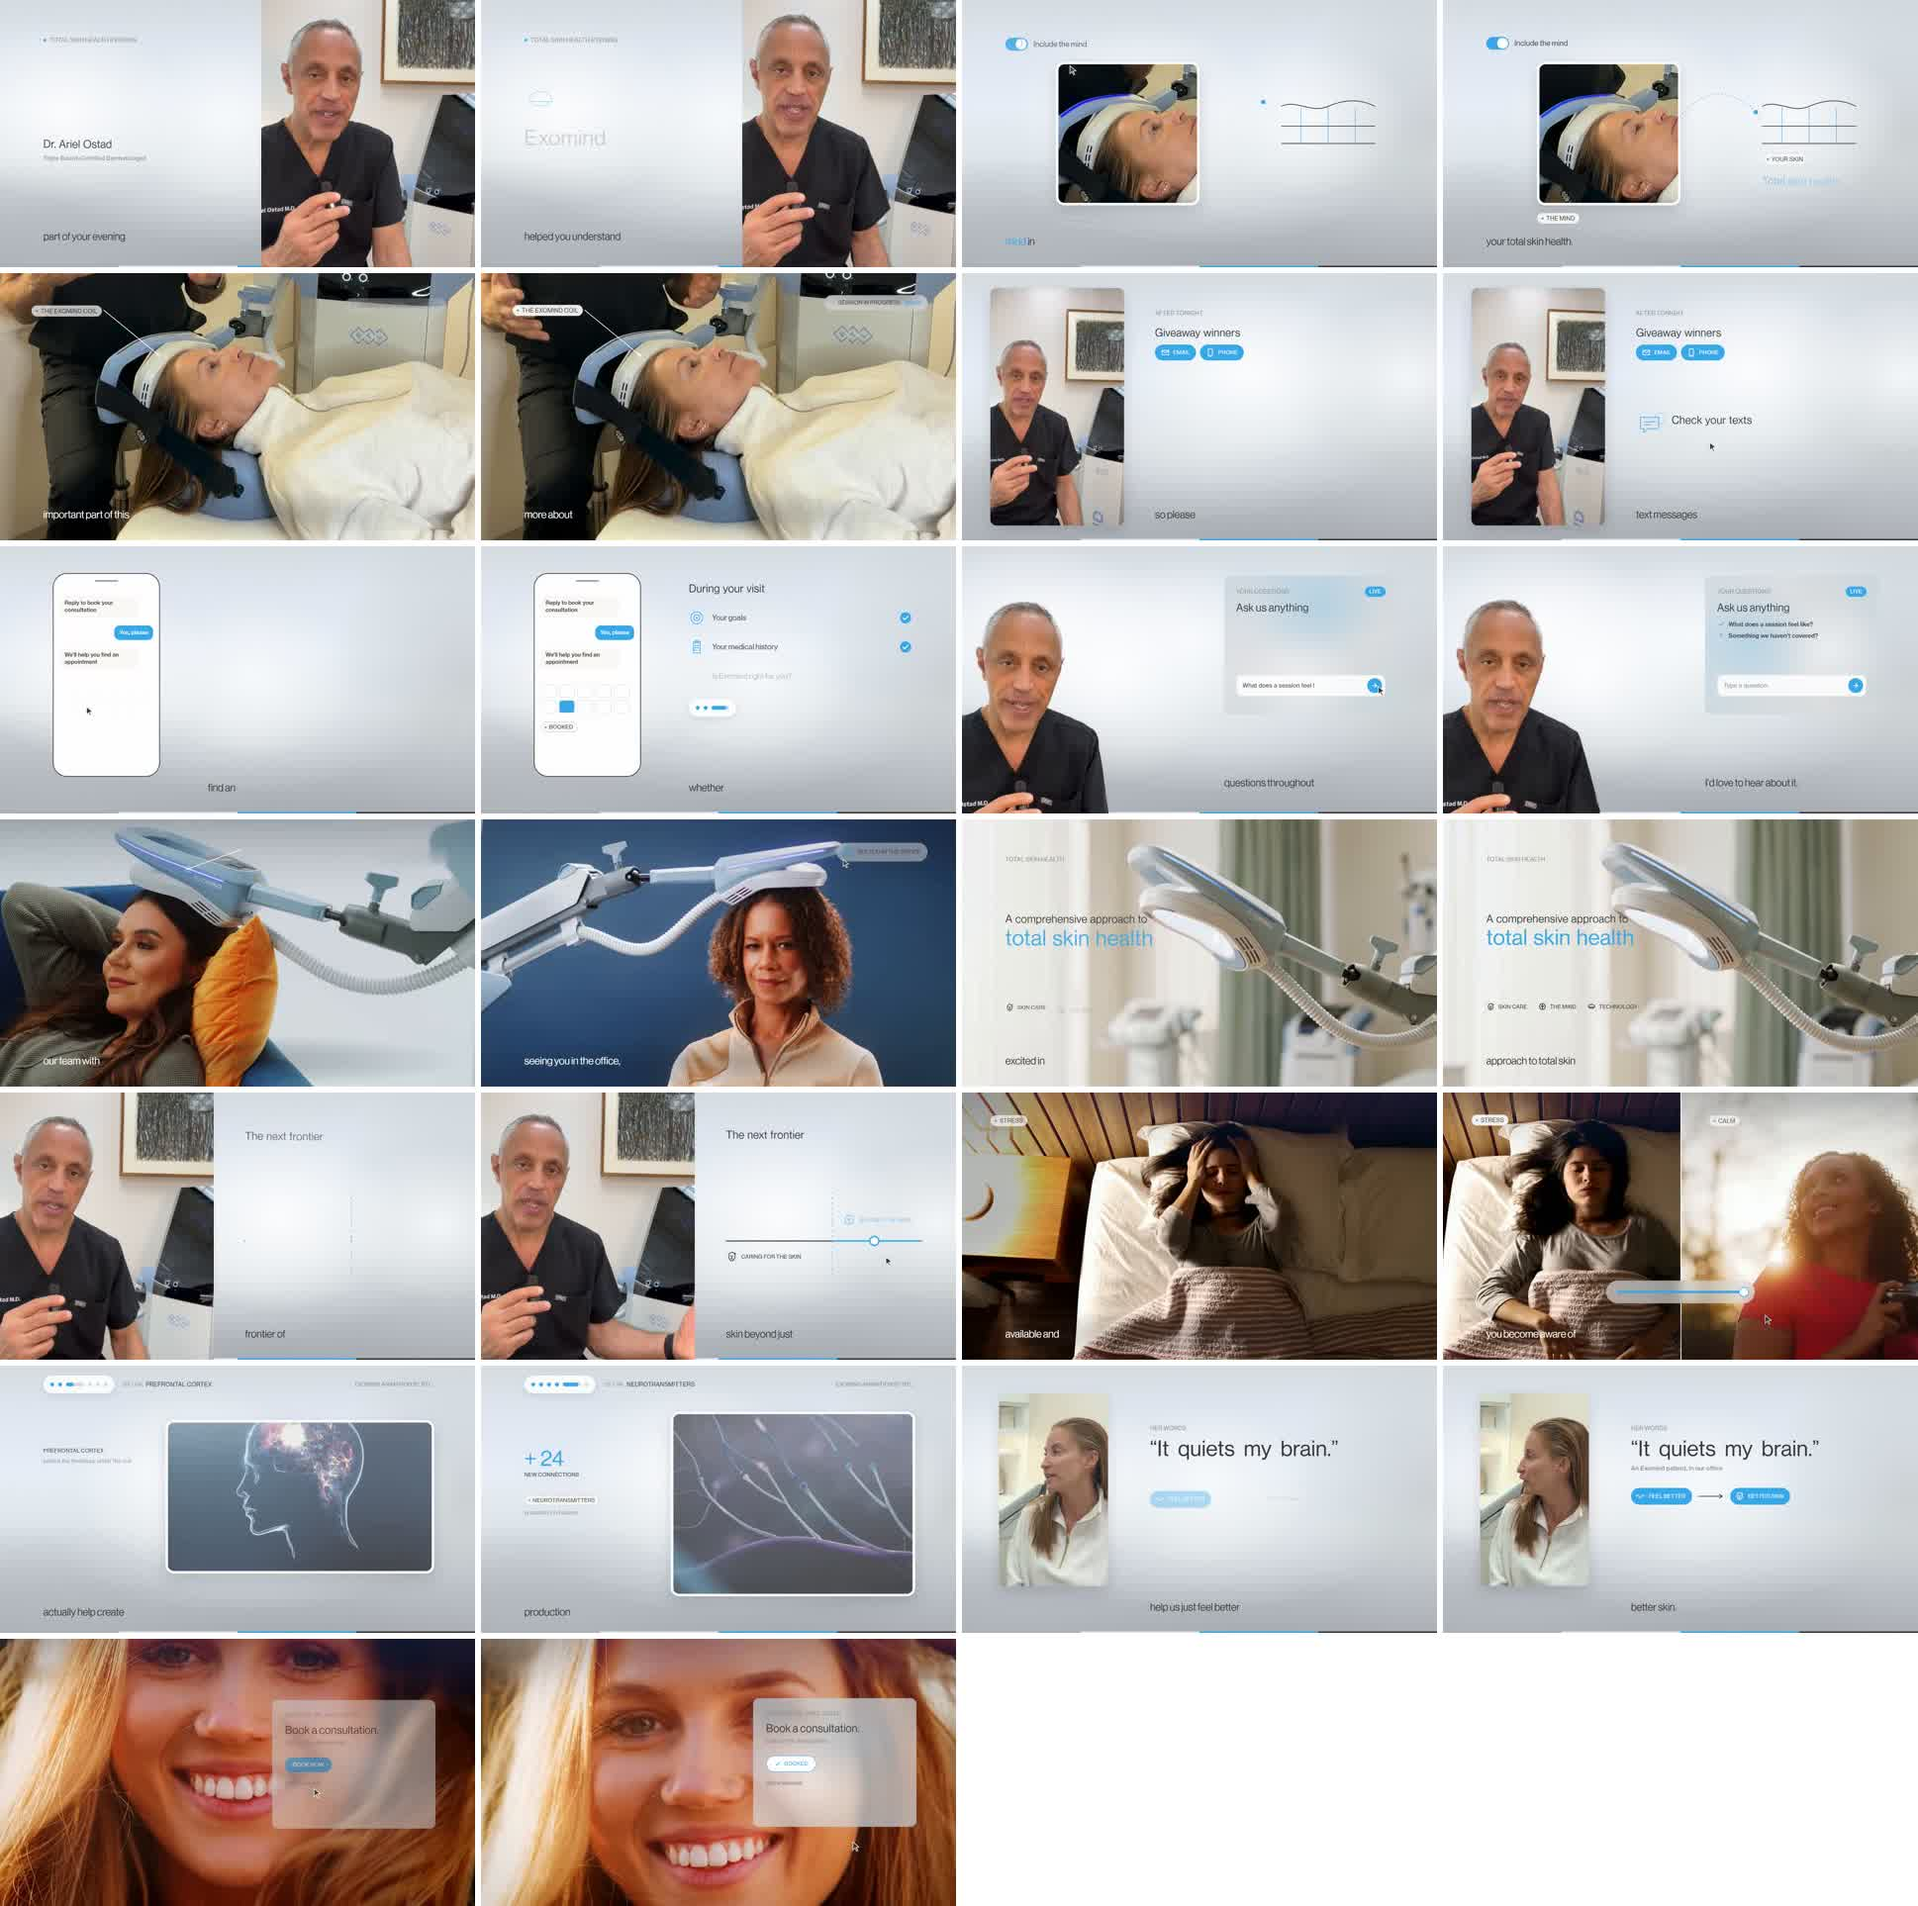
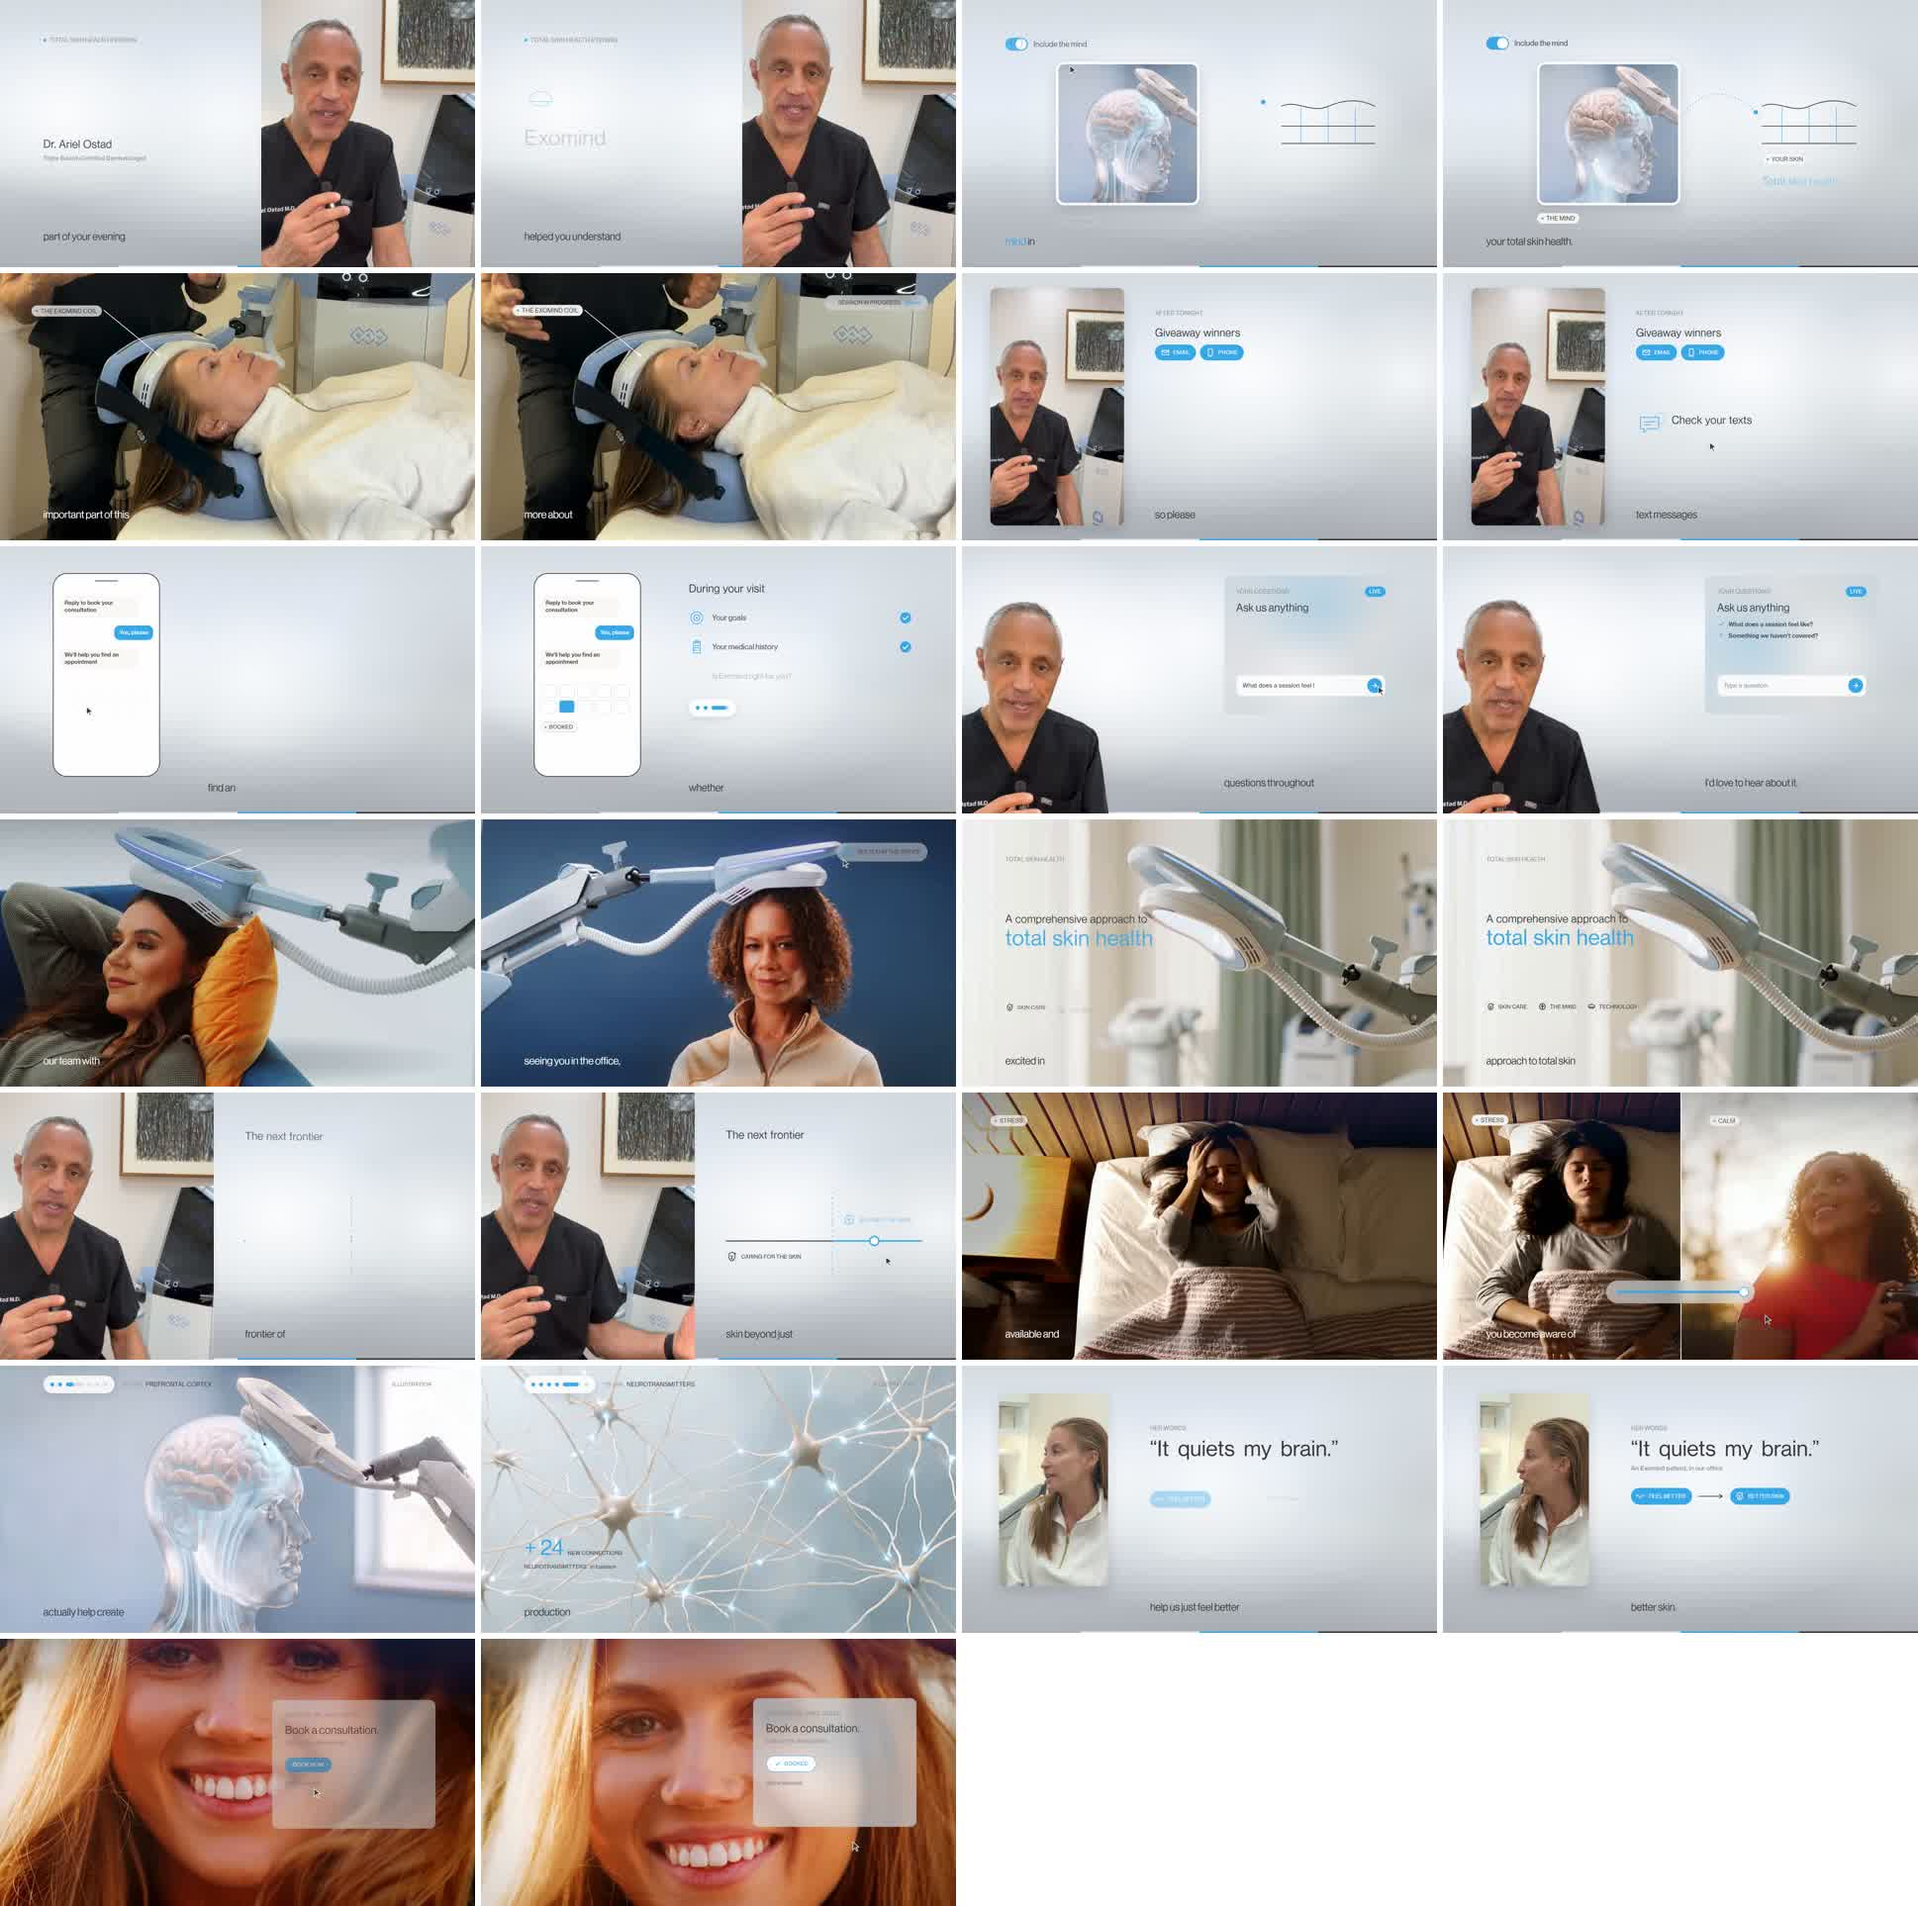
docs(ostad-style): 14d notes on the final Flora clips (AI renders, speeds, overlays); v4 contact sheet from the final render

Changed region(s): [[0.0, 0.7165, 0.4954, 0.8723], [0.5263, 0.0312, 0.6502, 0.1246], [0.805, 0.0312, 0.8978, 0.1246]]

diff --git a/research/ostad/style/DECISIONS.md b/research/ostad/style/DECISIONS.md
@@ -259,3 +259,7 @@ Client notes on v2: the drawn head and brain in the mechanism section "look horr
 - Canvas: every room colour was moved 55 % toward a luminance-matched cool blue-grey, and the floor tones further. HSV hue of each palette colour, before and after: top 100 -> 212, mid 80 -> 214, warm 69 -> 205, sage 75 -> 200, floor 73 -> 210. The BTL window grade follows (screen rgba(232,239,248,.30) to rgba(196,202,210,.24), ground #c8ced6).
 - Icons: a new `face` icon (front-on face with a small glint) for "Skin care", "Caring for the skin" and "Better skin". A new `synapse` icon (two membranes with messengers crossing) for "Neurotransmitters". The rest were checked and kept: coil (Exomind/technology), brain (mind/prefrontal cortex), pulse (magnetic pulse), network (new connections), wave (focus and flow), target (goals), clipboard (medical history), chat (texts), envelope/phone, calendar, check, question.
 - Not changed: the Flora coil render itself has a sage-green curtain in its room, which is part of the AI render. It needs a Flora re-render, or a recolour if the client flags it.
+- **The final Flora clips** are AI renders (Flora: Nano Banana Pro stills from a real BTL coil frame, animated with Kling), on a pale-blue room with no green.
+  - **head_final_anim:** a glass head with the brain inside and the real coil on the forehead. It is used in s2, inside the white window, at 1.16x so it fills the 4.33 s section without a hold. It is also the s11 mechanism shot, full frame at 1.3x (2.6-6.4 s), nearest-frame with no blending. Over it: a hairline from the step player's "Prefrontal cortex" label down to the frontal lobe, and "Neuroplasticity" in the empty left third, with no boxes over the head.
+  - **neuro_anim:** sparse to connected, reversed by the coordinator; blue synapse pixels measured at 144 at the start and 449 at the end. It plays full frame at 1.3x (6.4-10.2 s) in place of the navy BTL dendrite and synapse renders, with the new-connections counter and the neurotransmitters line in small type.
+  - The step player is drawn above the full-frame clips. The span is labelled "Illustration". The BTL renders remain only as the code's fallback.
